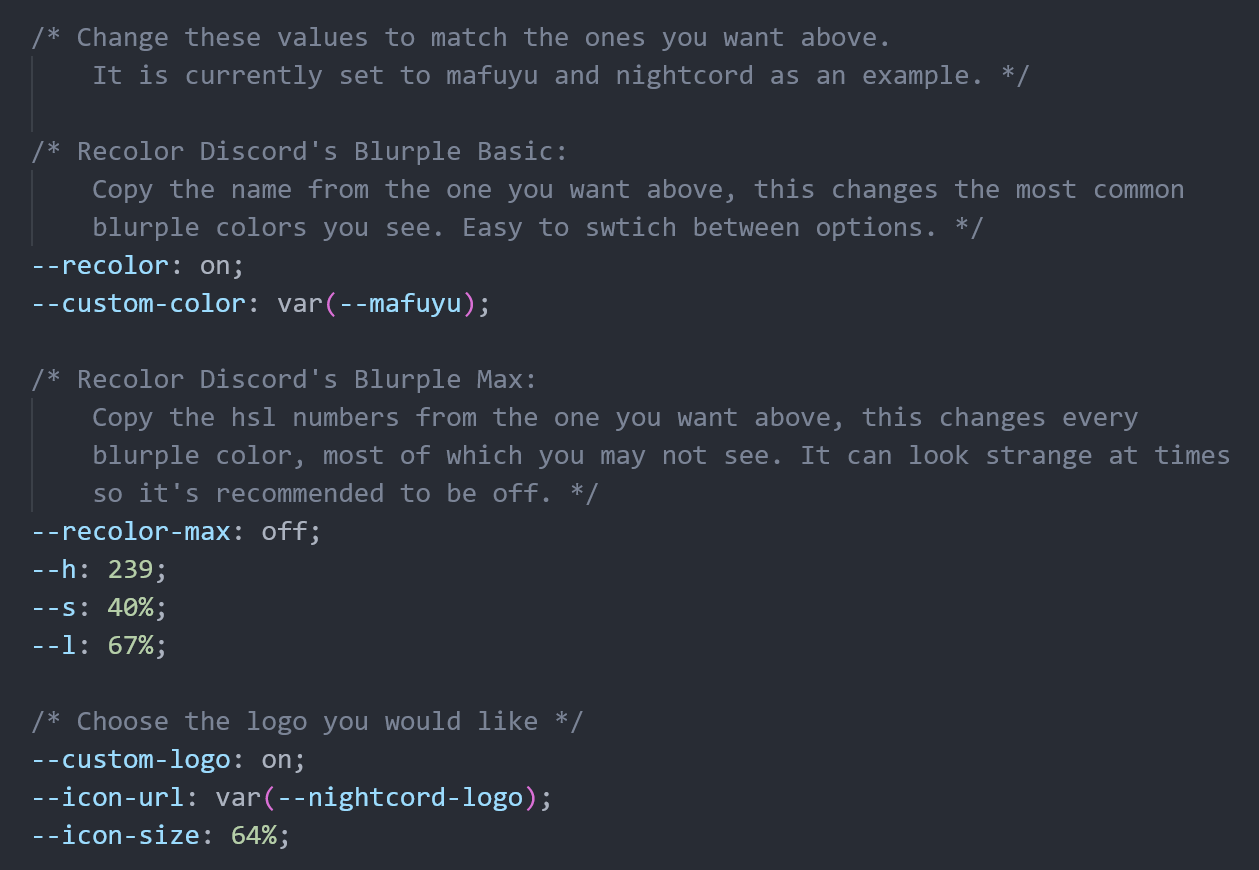
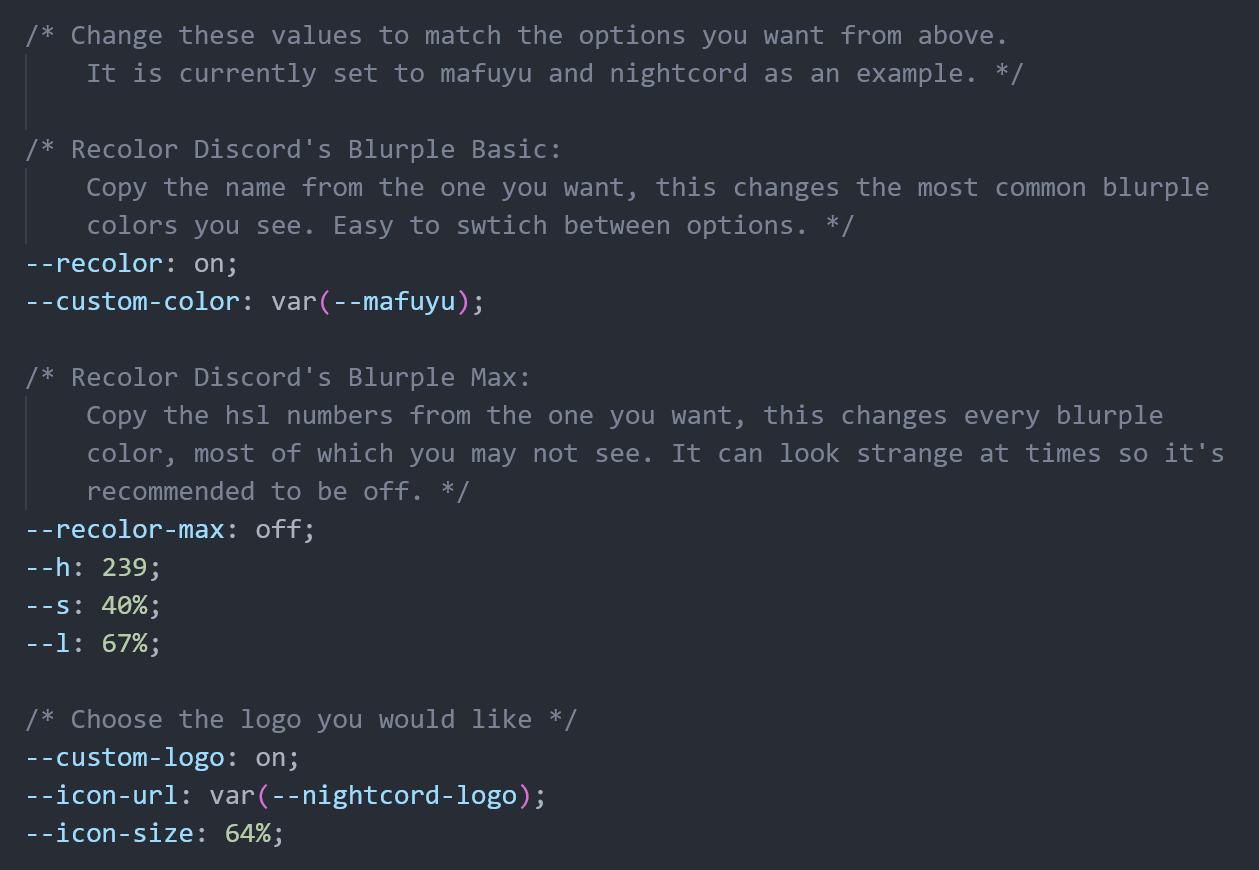
Edits

diff --git a/prsk/nightcordmini.theme.css b/prsk/nightcordmini.theme.css
@@ -13,7 +13,7 @@
 body {
 	container-name: body;
 
-	/* These are your options for which logo and color you would like to use */
+	/* These are the default options for which logo and color you would like to use */
 	--nightcord-logo: url('https://dabluee.github.io/discord-themes/prsk/assets/logos/nightcord.svg');
 	--vs-logo: url('https://dabluee.github.io/discord-themes/prsk/assets/logos/vs.svg');
 	--virtualsinger: hsl(175, 100%, 40%);
@@ -54,16 +54,16 @@ body {
 	--ena: hsl(30, 40%, 66%);
 	--mizuki: hsl(326, 53%, 78%);
 
-	/* Change these values to match the ones you want above.
+	/* Change these values to match the options you want from above.
 		It is currently set to mafuyu and nightcord as an example. */
 	
 	/* Recolor Discord's Blurple Basic: 
-		Copy the name from the one you want above, this changes the most common blurple colors you see. Easy to swtich between options. */
+		Copy the name from the one you want, this changes the most common blurple colors you see. Easy to swtich between options. */
 	--recolor: on;
 	--custom-color: var(--mafuyu);
 
 	/* Recolor Discord's Blurple Max: 
-		Copy the hsl numbers from the one you want above, this changes every blurple color, most of which you may not see. It can look strange at times so it's recommended to be off. */
+		Copy the hsl numbers from the one you want, this changes every blurple color, most of which you may not see. It can look strange at times so it's recommended to be off. */
 	--recolor-max: off;
 	--h: 239;
 	--s: 40%;

diff --git a/prsk/README.md b/prsk/README.md
@@ -1,13 +1,13 @@
 # Nightcord Mini
 
-Changes the Discord logo in the top left and the default color
+Changes the Discord logo in the top left and the default color.
 - Pick from any Project Sekai unit logo or the Nightcord one
-- You can add your own icon as well if you know how
+    - You can add your own icon as well if you know how
 - Change Discord's Blurple to be whatever color you want, all of the character's colors are provided 
 - Both are optional and can be turned off in settings
 
 ## Examples
-<img width=750 src="https://dabluee.github.io/discord-themes/prsk/assets/logoexample.png">
+<img height=187 src="https://dabluee.github.io/discord-themes/prsk/assets/logoexample.png">
 
 ## How to Edit
 1. Open the .css file in any text editor (Notepad for example).
@@ -15,9 +15,10 @@ Changes the Discord logo in the top left and the default color
     <img width=500 src="https://dabluee.github.io/discord-themes/prsk/assets/nightcordoptions.png">
 3. Pick whichever options you would like.
     - Change `--recolor: on;` to `--recolor: off;` if you want Discord's Blurple back.
-    - Change `--custom-color: var(--mafuyu);` to `--custom-color: var(--an);` for example.
-    - The custom logo works the same as above.
-    - It can be annoying to change between options for recolor-max, so it is not necessary. Some examples on how good to how off colors can look with this option are shown below. 
+    - Change `--custom-color: var(--mafuyu);` to `--custom-color: var(--an);` if you want a different color for example.
+    - The custom logo works the same as recoloring as shown above.
+    - It can be annoying to change between options for recolor-max, so it is not necessary. Some examples on how good to how off colors can look with this option are shown below.
+
         <img width=500 src="https://dabluee.github.io/discord-themes/prsk/assets/blurpleexample.png">
 
 ## Installation
